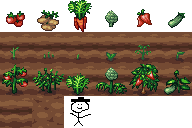
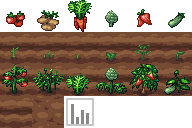
Toggle stats list, add lerp towards util

Changed region(s): [[0.3438, 0.75, 0.5, 1.0]]

diff --git a/src/hudScene.ts b/src/hudScene.ts
@@ -24,6 +24,7 @@ export class HUDScene extends Phaser.Scene {
 
   stats: Phaser.GameObjects.Container;
   bars: Phaser.GameObjects.Rectangle[];
+  statListTarget: number;
   
   farmers: Phaser.GameObjects.Container;
   farmerList: Phaser.GameObjects.Container;
@@ -65,23 +66,30 @@ export class HUDScene extends Phaser.Scene {
     this.speed = this.add.text(this.width - 20, this.height - 70, 'Speed: ' + (1 / this.scene.get('FarmScene').physics.world.timeScale).toFixed(0));
     this.speed.setOrigin(1, 0);
     this.game.events.addListener('speedValue', value => this.speed.setText('Speed: ' + value));
+    this.value = this.add.text(20, this.height - 50, 'Farm Value: $0');
 
-    this.stats = this.add.container(20, this.height - 125);
-    const statsBackground = new Phaser.GameObjects.Rectangle(this, -20, 23, 200, 115, 0x000000, 0.35).setOrigin(0, 1);
+    this.stats = this.add.container(-200, this.height - 124);
+    const statsBackground = new Phaser.GameObjects.Rectangle(this, 0, 22, 200, 115, 0x000000, 0.35).setOrigin(0, 1);
     statsBackground.setInteractive().on('pointerover', () => this.game.events.emit('clearHover'));
     this.stats.add(statsBackground);
     
-    this.value = this.add.text(20, this.height - 50, 'Farm Value: $0');
+    const statsToggle = new Phaser.GameObjects.Rectangle(this, 200, 0, 42, 44, 0x000000, 0.35).setOrigin(0, 0.5);
+    statsToggle.setInteractive({ useHandCursor: true });
+    statsToggle.on('pointerdown', this.toggleStats.bind(this));
+    statsToggle.on('pointerover', () => this.game.events.emit('clearHover'));
+    this.stats.add(statsToggle);
+    this.stats.add(new Phaser.GameObjects.Sprite(this, 204, 1, 'crops', 20).setOrigin(0, 0.5));
+    this.statListTarget = -200;
 
     this.bars = [];
     const sorted = Crops.sort((a, b) => { return a.frame - b.frame });
     for (var i = 0; i < sorted.length; i++) {
       const crop = sorted[i];
       
-      const sprite = new Phaser.GameObjects.Sprite(this, i * 32, 0, 'crops', crop.frame);
+      const sprite = new Phaser.GameObjects.Sprite(this, i * 32 + 20, 0, 'crops', crop.frame);
       this.stats.add(sprite);
 
-      const bar = new Phaser.GameObjects.Rectangle(this, i * 32, -50, 8, 50, 0xcccccc);
+      const bar = new Phaser.GameObjects.Rectangle(this, i * 32 + 20, -50, 8, 50, 0xcccccc);
       bar.setAngle(180);
       this.bars.push(bar);
       this.stats.add(bar);
@@ -92,10 +100,10 @@ export class HUDScene extends Phaser.Scene {
     this.farmerList = this.add.container(0, 0);
     this.farmListTarget = this.width;
 
-    const toggle = new Phaser.GameObjects.Rectangle(this, -42, this.height - 102, 42, 44, 0x000000, 0.5).setOrigin(0, 1);
-    toggle.setInteractive({ useHandCursor: true });
-    toggle.on('pointerdown', this.toggleFarmers.bind(this));
-    toggle.on('pointerover', () => this.game.events.emit('clearHover'));
+    const farmerToggle = new Phaser.GameObjects.Rectangle(this, -42, this.height - 102, 42, 44, 0x000000, 0.5).setOrigin(0, 1);
+    farmerToggle.setInteractive({ useHandCursor: true });
+    farmerToggle.on('pointerdown', this.toggleFarmers.bind(this));
+    farmerToggle.on('pointerover', () => this.game.events.emit('clearHover'));
     
     const rectangle = new Phaser.GameObjects.Rectangle(this, 0, 0, 175, this.height - 102, 0x000000, 0.5).setOrigin(0);
     rectangle.setInteractive();
@@ -103,7 +111,7 @@ export class HUDScene extends Phaser.Scene {
     
     this.farmers.add(rectangle);
     this.farmers.add(this.farmerList);
-    this.farmers.add(toggle);
+    this.farmers.add(farmerToggle);
     this.farmers.add(new Phaser.GameObjects.Sprite(this, -36, this.height - 142, 'farmer_a', 0).setOrigin(0).setAlpha(0.85));
     
     this.getFarmers();
@@ -120,10 +128,10 @@ export class HUDScene extends Phaser.Scene {
     this.stats.visible = !this.isShop;
     this.farmers.visible = !this.isShop;
 
-    if (this.farmListTarget > this.farmers.x) this.farmers.x = Phaser.Math.Clamp(this.farmers.x + delta * 0.7, this.width - 175, this.width);
-    else if (this.farmListTarget < this.farmers.x) this.farmers.x = Phaser.Math.Clamp(this.farmers.x - delta * 0.7, this.width - 175, this.width);
-    
-    if (this.stats.visible) {
+    if (!this.isShop) {
+      this.farmers.x = Util.lerpTowards(this.farmers.x, this.farmListTarget, delta * 0.7);
+      this.stats.x = Util.lerpTowards(this.stats.x, this.statListTarget, delta * 0.7);
+      
       const stats = this.registry.get('stats');
       const total = stats.reduce((a, v) => { return a + v; });
       for (var i = 0; i < Crops.length; i++) {
@@ -138,6 +146,14 @@ export class HUDScene extends Phaser.Scene {
       this.farmListTarget = this.width - 175;
     } else {
       this.farmListTarget = this.width;
+    }
+  }
+
+  toggleStats(): void {
+    if (this.statListTarget === 0) {
+      this.statListTarget = -200;
+    } else {
+      this.statListTarget = 0;
     }
   }
 

diff --git a/src/farmer.ts b/src/farmer.ts
@@ -24,7 +24,7 @@ export class Farmer extends Phaser.GameObjects.Container {
     if (!Farmer.ringTexture) {
       this.generateTexture();
     }
-    this.ring = scene.add.image(x, y, 'gradient').setScale(2, 2).setAlpha(0).setBlendMode(Phaser.BlendModes.OVERLAY);
+    this.ring = scene.add.image(x, y, 'gradient').setScale(2).setAlpha(0).setBlendMode(Phaser.BlendModes.OVERLAY);
 
     scene.add.existing(this);
     scene.physics.add.existing(this);

diff --git a/src/util.ts b/src/util.ts
@@ -26,4 +26,11 @@ export class Util {
       return txt.charAt(0).toUpperCase() + txt.substr(1).toLowerCase();
     });
   }
+
+  static lerpTowards(current: number, target: number, delta: number): number {
+      if (Math.abs(target - current) <= delta) {
+          return target;
+      }
+      return current + Math.sign(target - current) * delta;
+  }
 }
